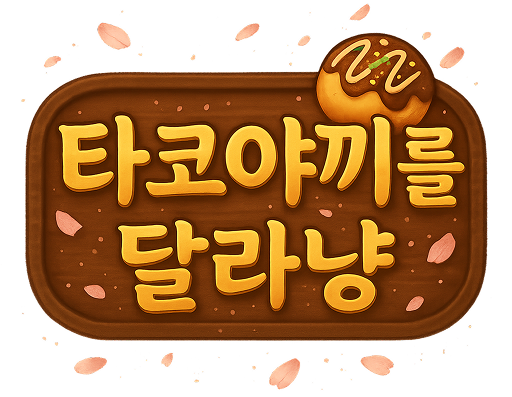
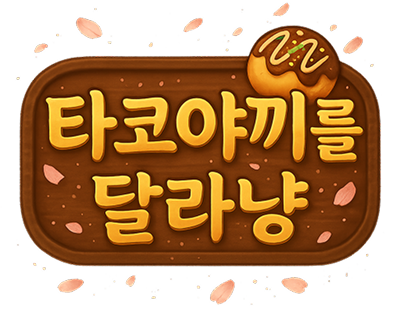
feat: 게임 시작 씬 이미지 사이즈, 색상 개수 줄임

Changed region(s): [[0.3, 0.5516, 0.33, 0.5806]]

diff --git a/src/scenes/StartScene.ts b/src/scenes/StartScene.ts
@@ -29,7 +29,7 @@ export class StartScene extends Phaser.Scene {
   }
 
   private createBackground() {
-    this.add.image(400, 300, 'start-background').setScale(0.6);
+    this.add.image(400, 300, 'start-background').setScale(0.9);
     this.add.image(630, 430, 'customer-happy').setScale(0.7);
     // 배경 장식 - 떨어지는 벚꽃
     this.add.particles(0, 0, 'sakura', {
@@ -50,12 +50,12 @@ export class StartScene extends Phaser.Scene {
   }
 
   private createTitle() {
-    const title = this.add.image(400, 150, 'game-title').setScale(0.7);
+    const title = this.add.image(400, 150, 'game-title').setScale(0.9);
 
     // 타이틀 애니메이션
     this.tweens.add({
       targets: title,
-      scale: 0.73,
+      scale: 0.93,
       duration: 2000,
       yoyo: true,
       repeat: -1,
@@ -67,7 +67,7 @@ export class StartScene extends Phaser.Scene {
     // 시작 버튼
     const startButton = this.add
       .image(150, 400, 'game-start-button')
-      .setScale(0.4)
+      .setScale(0.8)
       .setInteractive(); // Interactive 설정 추가
 
     startButton.on('pointerdown', () => {
@@ -79,7 +79,7 @@ export class StartScene extends Phaser.Scene {
       this.game.canvas.style.cursor = 'pointer';
       this.tweens.add({
         targets: startButton,
-        scale: 0.45,
+        scale: 0.85,
         duration: 200,
         ease: 'Sine.easeOut',
       });
@@ -89,7 +89,7 @@ export class StartScene extends Phaser.Scene {
       this.game.canvas.style.cursor = 'default';
       this.tweens.add({
         targets: startButton,
-        scale: 0.4,
+        scale: 0.8,
         duration: 200,
         ease: 'Sine.easeOut',
       });
@@ -98,7 +98,7 @@ export class StartScene extends Phaser.Scene {
     // 방법 버튼
     const howToButton = this.add
       .image(150, 490, 'game-manual-button')
-      .setScale(0.4)
+      .setScale(0.8)
       .setInteractive(); // Interactive 설정 추가
 
     // 올바른 이벤트 연결 (startButton이 아니라 howToButton)
@@ -111,7 +111,7 @@ export class StartScene extends Phaser.Scene {
       this.game.canvas.style.cursor = 'pointer';
       this.tweens.add({
         targets: howToButton,
-        scale: 0.45,
+        scale: 0.85,
         duration: 200,
         ease: 'Sine.easeOut',
       });
@@ -121,7 +121,7 @@ export class StartScene extends Phaser.Scene {
       this.game.canvas.style.cursor = 'default';
       this.tweens.add({
         targets: howToButton,
-        scale: 0.4,
+        scale: 0.8,
         duration: 200,
         ease: 'Sine.easeOut',
       });

diff --git a/src/utils/AssetLoader.ts b/src/utils/AssetLoader.ts
@@ -22,7 +22,7 @@ export class AssetLoader {
   }
 
   private static loadBasicAssets(scene: Phaser.Scene) {
-    scene.load.image('start-background', 'assets/start-background1.png');
+    scene.load.image('start-background', 'assets/start-background.png');
     scene.load.image('game-title', 'assets/game-title.png');
     scene.load.image('game-start-button', 'assets/game-start-button.png');
     scene.load.image('game-manual-button', 'assets/game-manual-button.png');
